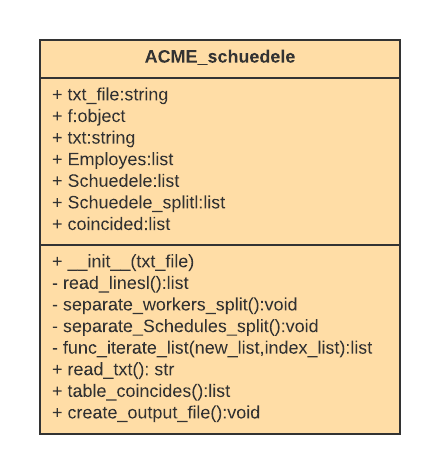
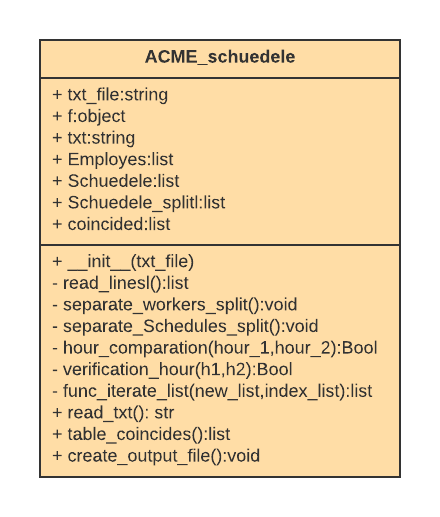
some comments

Changed region(s): [[0.0886, 0.0591, 0.9159, 0.9451]]

diff --git a/scheudele.py b/scheudele.py
@@ -34,12 +34,13 @@ class ACME_schuedele:
         self.Schedules_split = []
         self.Schedules_split = [item.split(',') for item in self.Schedules]
 
-
+    ## This method only compare if one hour is greater or lesser
     def __hour_comparation(self,hour_1,hour_2):
         if((hour_1[0]>hour_2[0]) or (hour_1[0]==hour_2[0] and hour_1[1]>hour_2[1])or (hour_1[0]==hour_2[0] and hour_1[1]==hour_2[1])):
             return True
         return False
     
+    ## This method verify if the Employes coincides in any tine
     def __verification_hour(self,h1,h2):
         cond_1 = (self.__hour_comparation(h2[0],h1[0]) and  self.__hour_comparation(h1[1],h2[1]))
         cond_2 = (self.__hour_comparation(h1[0],h2[0]) and  self.__hour_comparation(h2[1],h1[0]))
@@ -48,9 +49,7 @@ class ACME_schuedele:
             return True
         return False
 
-
-
-   ## This Private method iterate all element in a list, and comparate if each element is in a list in a list of lists
+   ## This Private method iterate all element in a list, and comparate if each hour is betwwen inside other
     def __func_iterate_list(self,new_list,index_list):
         Output=[]
         for i in range(index_list+1,len(self.Schedules_split)):

diff --git a/README.md b/README.md
@@ -60,6 +60,8 @@ The main idea of the solution is to make several iterations of comparisons
 </p>
 
 
+To compare if two were at the same time in the office, first the day was compared, if the day coincided, it was proceeded to see if the hours coincided, for that different comparison conditions were generated between the hours of the employees
+
 ## ACME CLASS
 
 For the solution of this exercise, a class was created that has several methods to calculate the coincidences of schedules between ACME employees. The class is in this script.
